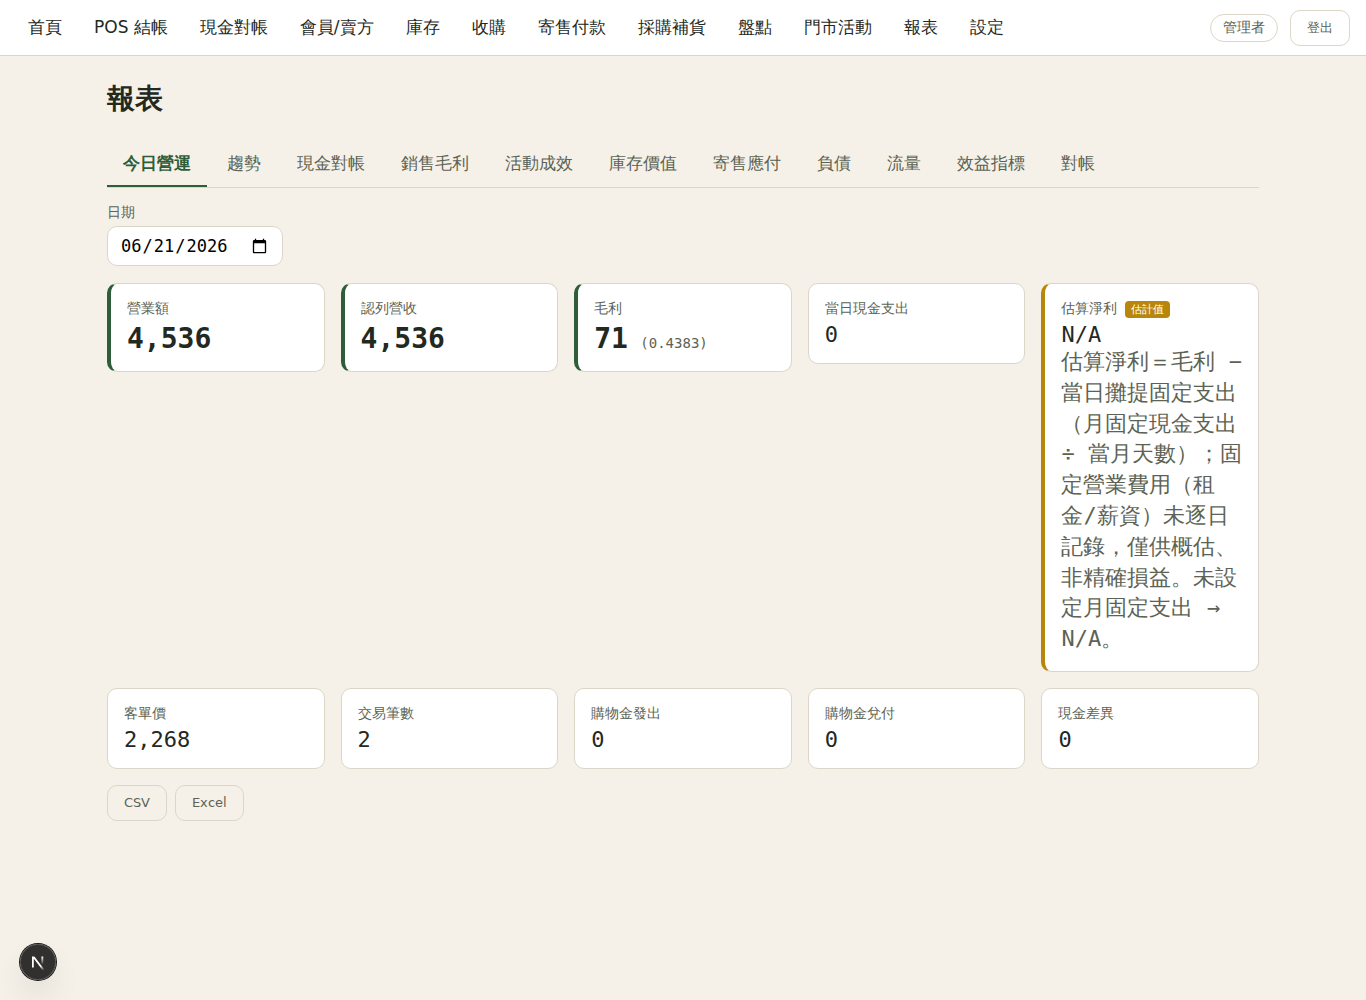
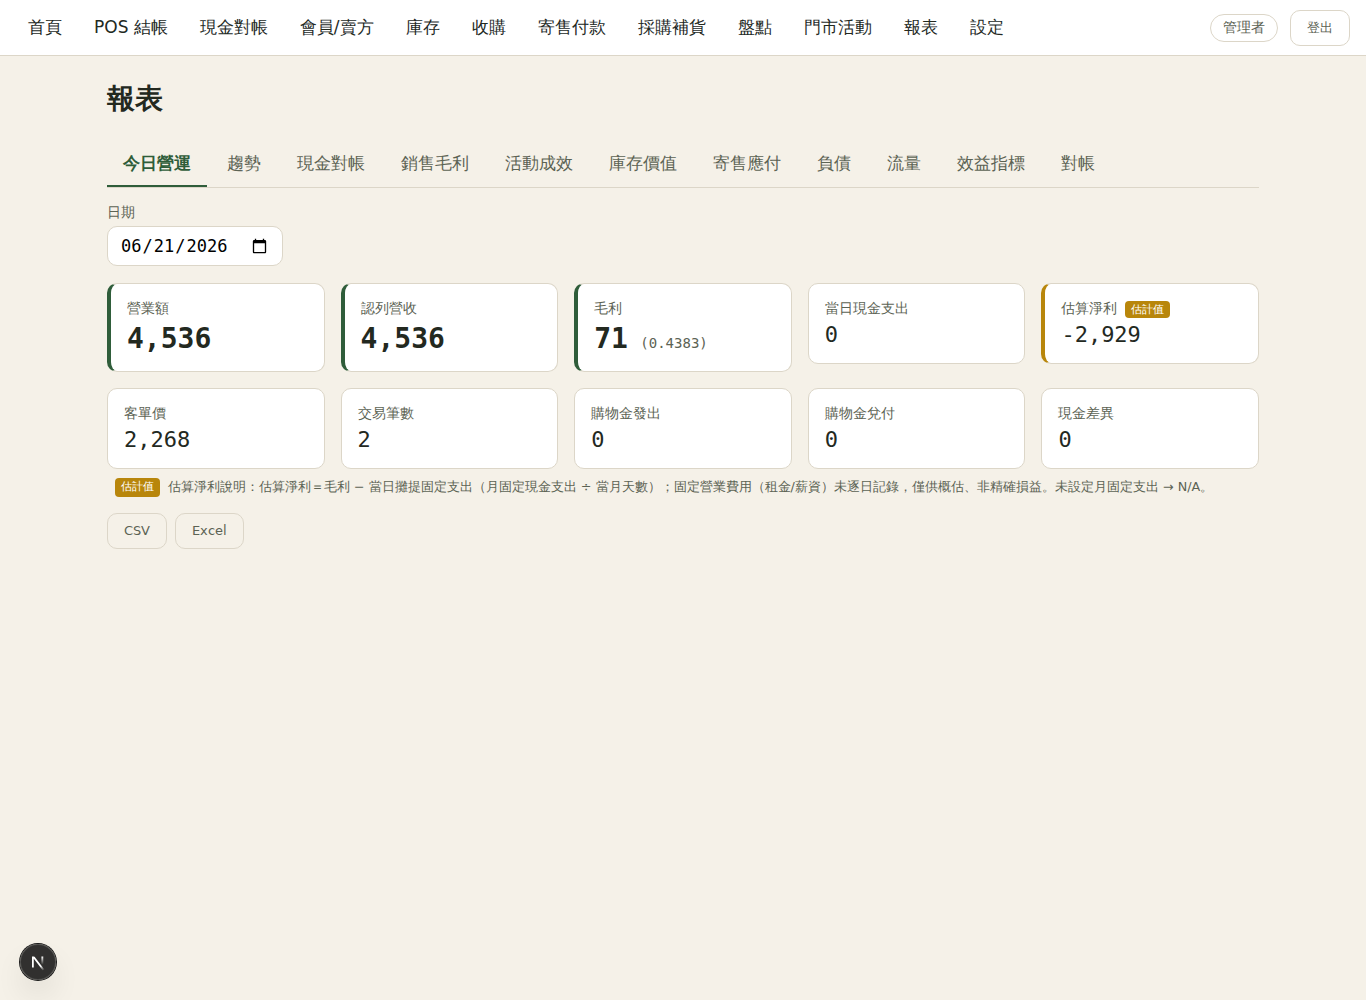
fix(reports): 估算淨利長說明移為卡片下方註腳，儀表板卡片高度一致
延續卡片跑版修正：把「估算淨利」卡內的長說明抽到卡片區下方當註腳（rpt-dashboard-footnote），
讓 10 張卡片高度一致、不再有單張被撐高。估算淨利卡只留標題+數值+「估計值」標。
- seed_dev_demo 設 monthly_fixed_cash_outflow=90000，讓示範儀表板「估算淨利」帶得出數字
  （否則預設 0 → N/A）；正式由店主於「設定」頁的「月固定現金支出」維護。
- 截圖更新：估算淨利顯示 -2,929（毛利 71 − 90000÷30=3000），版面整齊。

關卡：前端 tsc/eslint ✅；後端 ruff ✅；瀏覽器截圖驗證。

diff --git a/frontend/app/(authed)/reports/reports.css b/frontend/app/(authed)/reports/reports.css
@@ -129,13 +129,17 @@
   margin-left: var(--sp-1);
 }
 
-.rpt-note-inline {
+/* 估算淨利長說明移至卡片下方註腳，讓儀表板卡片高度一致、不被撐高。 */
+.rpt-dashboard-footnote {
   font-family: var(--font-sans, system-ui, sans-serif);
   font-size: var(--text-xs, 0.75rem);
-  line-height: 1.4;
+  line-height: 1.5;
   color: var(--ink-soft);
-  font-weight: 400;
-  margin-top: var(--sp-1);
+  margin: calc(-1 * var(--sp-2)) 0 var(--sp-4);
+}
+
+.rpt-dashboard-footnote .rpt-badge-estimate {
+  margin-right: var(--sp-2);
 }
 
 /* -- Phase 6: Tabs wrap (scrollable for many tabs) -- */

diff --git a/frontend/app/(authed)/reports/page.tsx b/frontend/app/(authed)/reports/page.tsx
@@ -288,7 +288,6 @@ function DashboardPanel() {
             <span className="rpt-badge-estimate">估計值</span>
           </dt>
           <dd><MoneyText value={report.estimated_net_income} /></dd>
-          <dd className="rpt-note-inline">{report.estimated_net_income_note}</dd>
         </div>
         <div className="rpt-stat">
           <dt>客單價</dt>
@@ -311,6 +310,13 @@ function DashboardPanel() {
           <dd><MoneyText value={report.cash_variance} /></dd>
         </div>
       </dl>
+
+      {report.estimated_net_income_note && (
+        <p className="rpt-dashboard-footnote">
+          <span className="rpt-badge-estimate">估計值</span>
+          估算淨利說明：{report.estimated_net_income_note}
+        </p>
+      )}
 
       <DownloadButtons onDownload={handleDownload} />
     </div>

diff --git a/backend/app/scripts/seed_dev_demo.py b/backend/app/scripts/seed_dev_demo.py
@@ -33,6 +33,8 @@ from app.modules.contacts.models import Contact
 from app.modules.inventory.models import BulkLot, CatalogProduct, SerializedItem
 from app.modules.sales.inputs import SaleLineInput
 from app.modules.sales.service import SalesService
+from app.modules.settings.schemas import SettingsUpdateRequest
+from app.modules.settings.service import StoreSettingsService
 from app.modules.store.models import Store
 from app.modules.user.models import User
 from app.shared.enums import (
@@ -75,6 +77,15 @@ async def _seed() -> None:
         if await cash.get_current_session(store_id) is None:
             await cash.open_session(store_id, clerk_id, Decimal(5000))
             await session.commit()
+
+        # 設「月固定現金支出」（房租+薪資+水電…），讓每日儀表板「估算淨利」帶得出數字（否則 N/A）。
+        # 正式環境由店主於「設定」頁的「月固定現金支出」欄維護。
+        await StoreSettingsService(session).update_settings(
+            store_id,
+            actor_user_id=clerk_id,
+            patch=SettingsUpdateRequest(monthly_fixed_cash_outflow=Decimal(90000)),
+        )
+        await session.commit()
 
         tag = _NOW.strftime("%H%M%S")
         # 寄售人（供寄售序號品 consignor_id）。